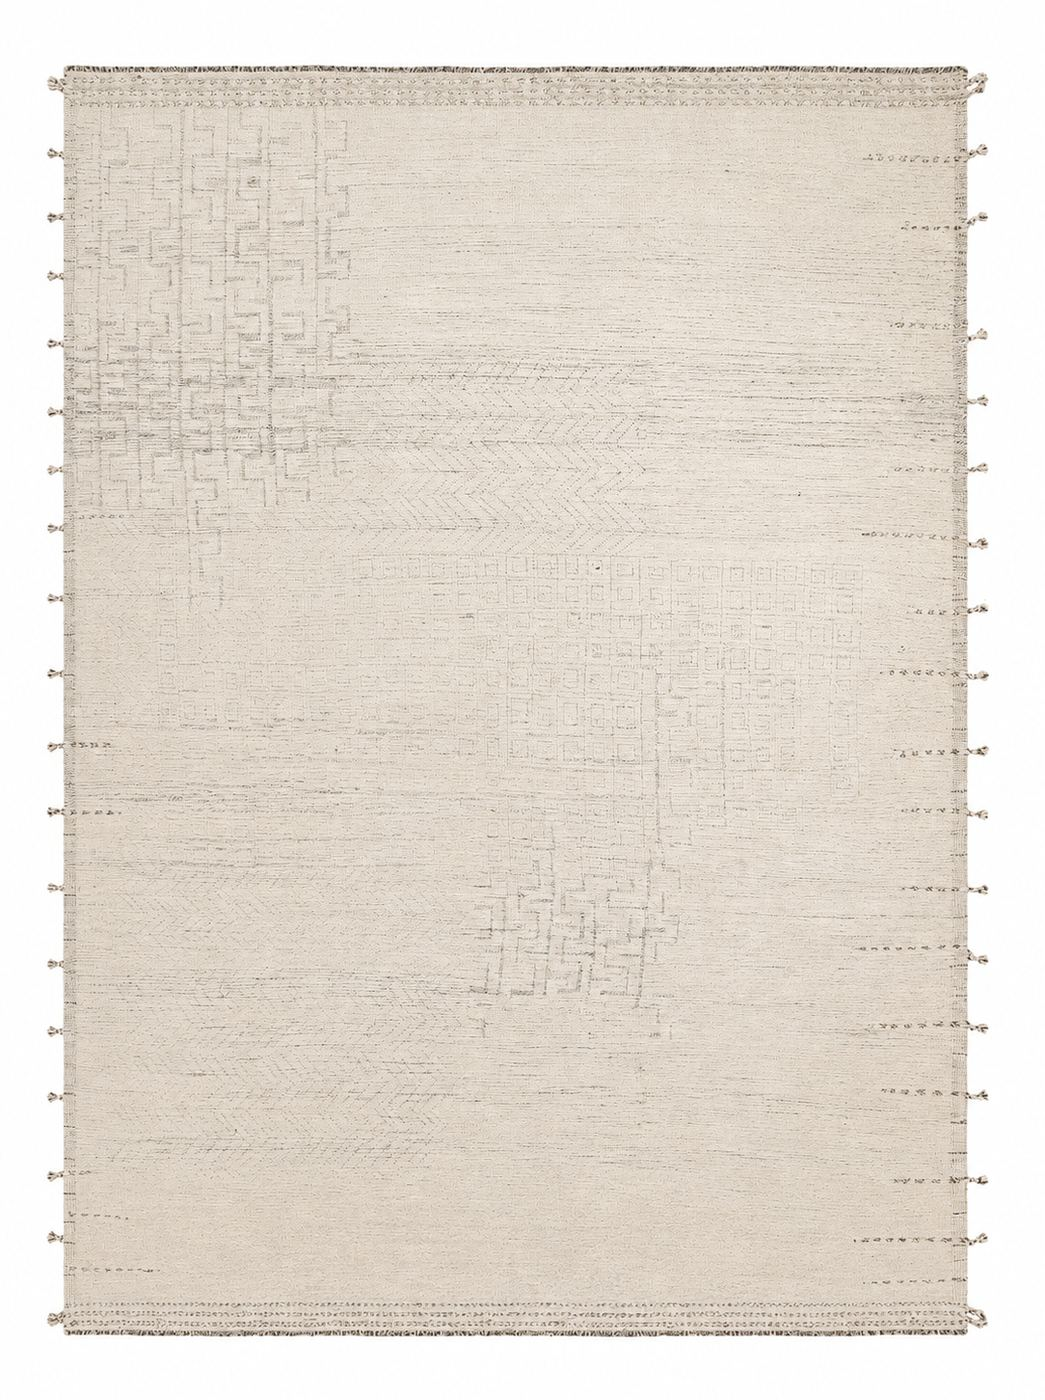
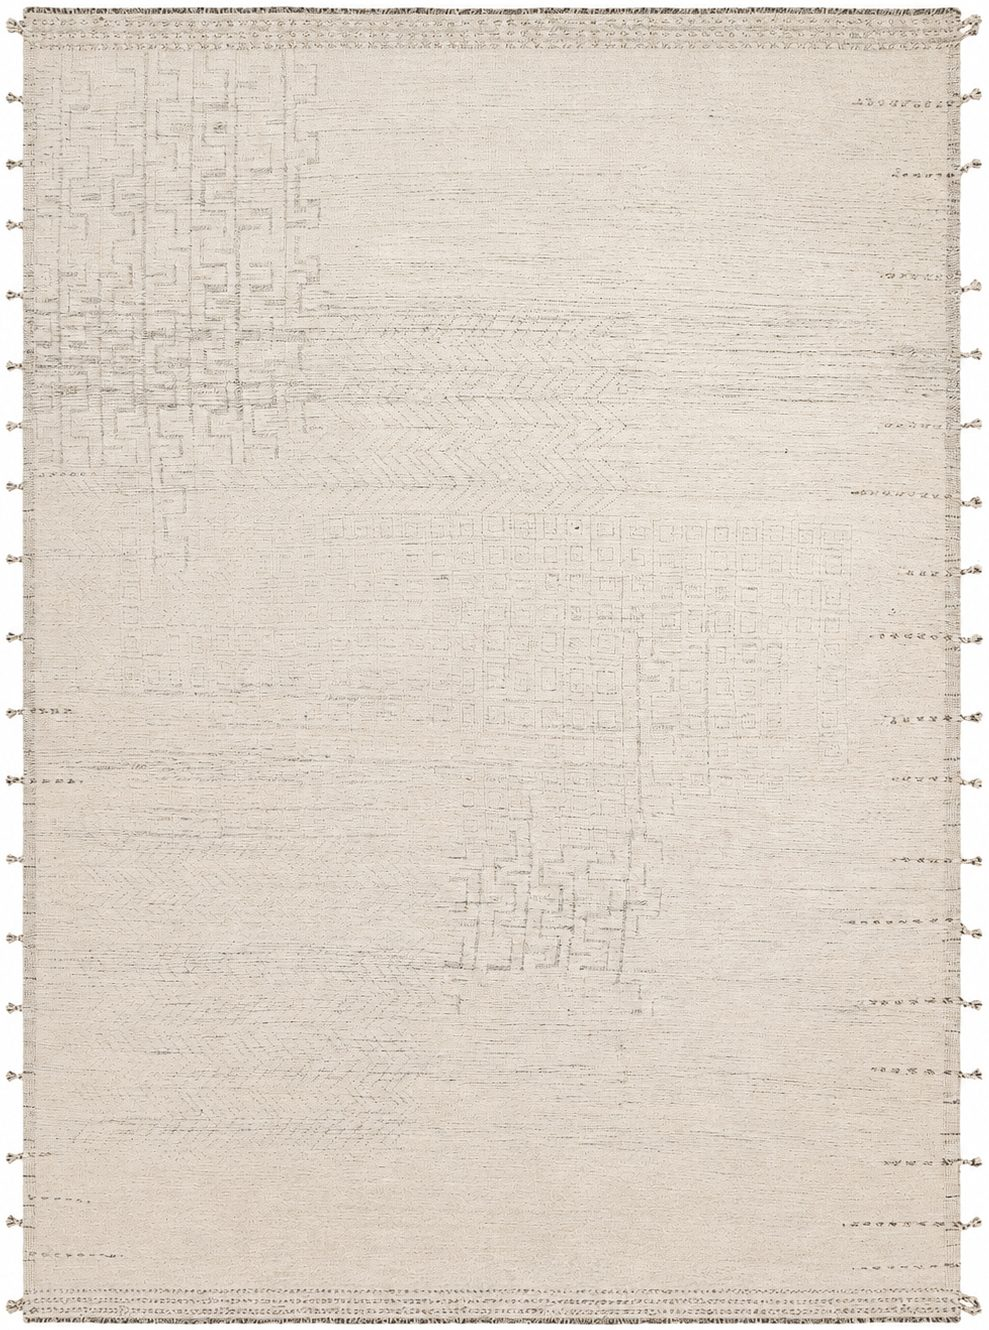
Tightly crop rug product photos and switch to object-fit: contain
Remove the white studio backdrop margin from the Maimana, Bur Bur, and
Kashan photos via a background-color bounding-box crop, and switch
.product-photo/.product-photo-lg to object-fit: contain so the full
rug is always shown regardless of its aspect ratio (previously
object-fit: cover was clipping the Persian Kashan).

diff --git a/assets/css/style.css b/assets/css/style.css
@@ -414,9 +414,10 @@ body:not(.page-home) { padding-top: var(--nav-h); }
 .product-card { display: block; }
 .product-card .art { margin-bottom: 18px; }
 .product-photo { position: relative; display: block; width: 100%; aspect-ratio: 3/4; overflow: hidden; }
-.product-photo img { width: 100%; height: 100%; object-fit: cover; display: block; }
+.product-photo img { width: 100%; height: 100%; object-fit: contain; display: block; }
 .product-card .product-photo { margin-bottom: 18px; }
 .product-photo-lg { aspect-ratio: 3/4; }
+.product-photo-lg img { object-fit: contain; }
 .price-was { text-decoration: line-through; color: var(--muted); margin-right: 10px; }
 .price-now { color: var(--black); font-weight: 500; }
 .product-card .card-overlay {
